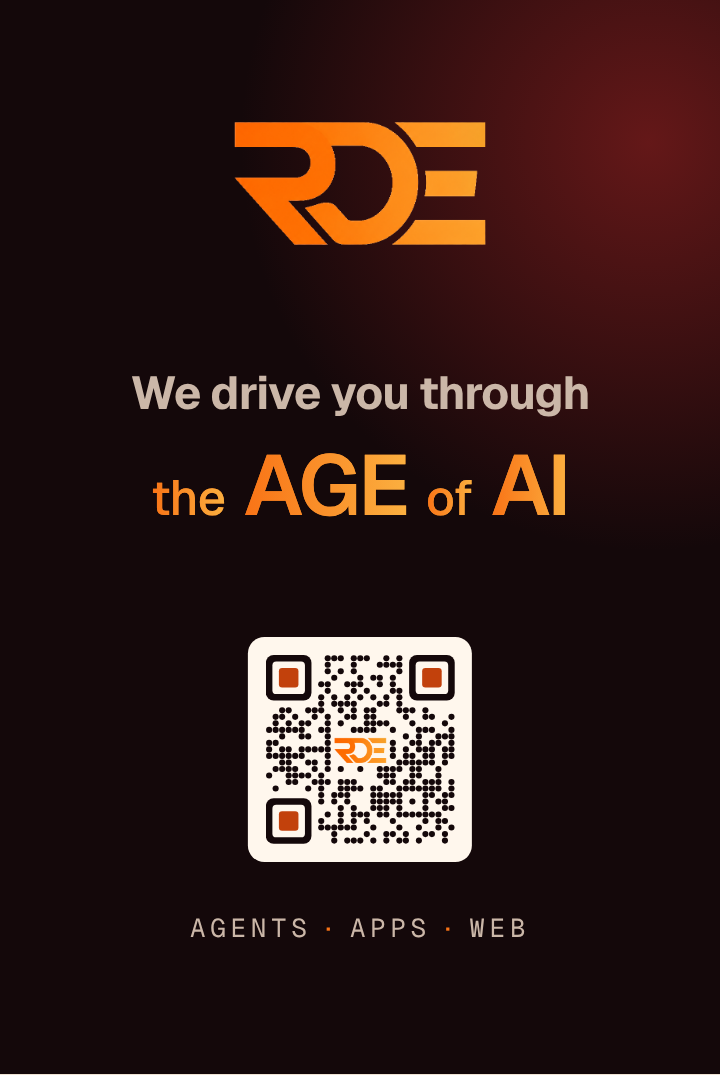
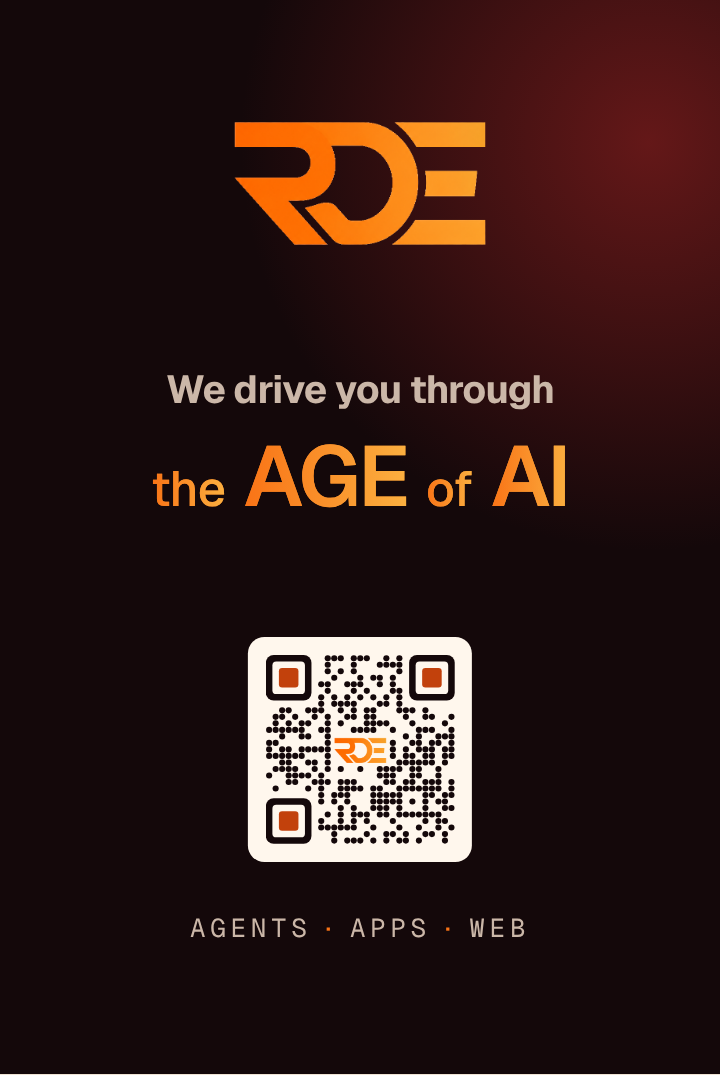
Business card portrait: smaller lead-in line
Claude-Session: https://claude.ai/code/session_01B6fozEJdCLAGrKoXUG1e35

Changed region(s): [[0.1833, 0.3377, 0.825, 0.4912], [0.2139, 0.4298, 0.3056, 0.4912]]

diff --git a/business-card/_p-back-bleed.html b/business-card/_p-back-bleed.html
@@ -50,7 +50,7 @@ body{margin:0;background:var(--bg);color:var(--fg);font-family:var(--font)}
 .glow{right:calc(-30 * var(--mm));top:calc(-24 * var(--mm));width:calc(72 * var(--mm));height:calc(72 * var(--mm));border-radius:50%;background:radial-gradient(circle,rgba(127,29,29,.75),rgba(127,29,29,0) 68%)}
 .logo{left:50%;transform:translateX(-50%);top:calc(7 * var(--mm));height:calc(11 * var(--mm));width:auto;display:block}
 .hl{left:0;right:0;top:calc(28 * var(--mm));text-align:center}
-.hl h2{margin:0;font-weight:400;font-size:calc(3.9 * var(--mm));line-height:1.2;white-space:nowrap;color:#cbb7a8;letter-spacing:-.02em}
+.hl h2{margin:0;font-weight:400;font-size:calc(3.3 * var(--mm));line-height:1.2;white-space:nowrap;color:#cbb7a8;letter-spacing:-.02em}
 .hl h2 b{display:block;margin-top:calc(1.5 * var(--mm));font-weight:600;font-size:calc(7.2 * var(--mm));line-height:1.1;white-space:nowrap;letter-spacing:-.025em;background:linear-gradient(90deg,#f97316,#fbb040);-webkit-background-clip:text;background-clip:text;color:transparent}
 .hl h2 b span,.hl h2 b s{background:linear-gradient(90deg,#f97316,#fbb040);-webkit-background-clip:text;background-clip:text;color:transparent}
 .hl h2 b s{text-decoration:none;font-size:.58em;font-weight:500;letter-spacing:-.01em}

diff --git a/business-card/_p-back.html b/business-card/_p-back.html
@@ -50,7 +50,7 @@ body{margin:0;background:var(--bg);color:var(--fg);font-family:var(--font)}
 .glow{right:calc(-30 * var(--mm));top:calc(-24 * var(--mm));width:calc(72 * var(--mm));height:calc(72 * var(--mm));border-radius:50%;background:radial-gradient(circle,rgba(127,29,29,.75),rgba(127,29,29,0) 68%)}
 .logo{left:50%;transform:translateX(-50%);top:calc(7 * var(--mm));height:calc(11 * var(--mm));width:auto;display:block}
 .hl{left:0;right:0;top:calc(28 * var(--mm));text-align:center}
-.hl h2{margin:0;font-weight:400;font-size:calc(3.9 * var(--mm));line-height:1.2;white-space:nowrap;color:#cbb7a8;letter-spacing:-.02em}
+.hl h2{margin:0;font-weight:400;font-size:calc(3.3 * var(--mm));line-height:1.2;white-space:nowrap;color:#cbb7a8;letter-spacing:-.02em}
 .hl h2 b{display:block;margin-top:calc(1.5 * var(--mm));font-weight:600;font-size:calc(7.2 * var(--mm));line-height:1.1;white-space:nowrap;letter-spacing:-.025em;background:linear-gradient(90deg,#f97316,#fbb040);-webkit-background-clip:text;background-clip:text;color:transparent}
 .hl h2 b span,.hl h2 b s{background:linear-gradient(90deg,#f97316,#fbb040);-webkit-background-clip:text;background-clip:text;color:transparent}
 .hl h2 b s{text-decoration:none;font-size:.58em;font-weight:500;letter-spacing:-.01em}

diff --git a/business-card/_p-front-bleed.html b/business-card/_p-front-bleed.html
@@ -50,7 +50,7 @@ body{margin:0;background:var(--bg);color:var(--fg);font-family:var(--font)}
 .glow{right:calc(-30 * var(--mm));top:calc(-24 * var(--mm));width:calc(72 * var(--mm));height:calc(72 * var(--mm));border-radius:50%;background:radial-gradient(circle,rgba(127,29,29,.75),rgba(127,29,29,0) 68%)}
 .logo{left:50%;transform:translateX(-50%);top:calc(7 * var(--mm));height:calc(11 * var(--mm));width:auto;display:block}
 .hl{left:0;right:0;top:calc(28 * var(--mm));text-align:center}
-.hl h2{margin:0;font-weight:400;font-size:calc(3.9 * var(--mm));line-height:1.2;white-space:nowrap;color:#cbb7a8;letter-spacing:-.02em}
+.hl h2{margin:0;font-weight:400;font-size:calc(3.3 * var(--mm));line-height:1.2;white-space:nowrap;color:#cbb7a8;letter-spacing:-.02em}
 .hl h2 b{display:block;margin-top:calc(1.5 * var(--mm));font-weight:600;font-size:calc(7.2 * var(--mm));line-height:1.1;white-space:nowrap;letter-spacing:-.025em;background:linear-gradient(90deg,#f97316,#fbb040);-webkit-background-clip:text;background-clip:text;color:transparent}
 .hl h2 b span,.hl h2 b s{background:linear-gradient(90deg,#f97316,#fbb040);-webkit-background-clip:text;background-clip:text;color:transparent}
 .hl h2 b s{text-decoration:none;font-size:.58em;font-weight:500;letter-spacing:-.01em}

diff --git a/business-card/_p-front.html b/business-card/_p-front.html
@@ -50,7 +50,7 @@ body{margin:0;background:var(--bg);color:var(--fg);font-family:var(--font)}
 .glow{right:calc(-30 * var(--mm));top:calc(-24 * var(--mm));width:calc(72 * var(--mm));height:calc(72 * var(--mm));border-radius:50%;background:radial-gradient(circle,rgba(127,29,29,.75),rgba(127,29,29,0) 68%)}
 .logo{left:50%;transform:translateX(-50%);top:calc(7 * var(--mm));height:calc(11 * var(--mm));width:auto;display:block}
 .hl{left:0;right:0;top:calc(28 * var(--mm));text-align:center}
-.hl h2{margin:0;font-weight:400;font-size:calc(3.9 * var(--mm));line-height:1.2;white-space:nowrap;color:#cbb7a8;letter-spacing:-.02em}
+.hl h2{margin:0;font-weight:400;font-size:calc(3.3 * var(--mm));line-height:1.2;white-space:nowrap;color:#cbb7a8;letter-spacing:-.02em}
 .hl h2 b{display:block;margin-top:calc(1.5 * var(--mm));font-weight:600;font-size:calc(7.2 * var(--mm));line-height:1.1;white-space:nowrap;letter-spacing:-.025em;background:linear-gradient(90deg,#f97316,#fbb040);-webkit-background-clip:text;background-clip:text;color:transparent}
 .hl h2 b span,.hl h2 b s{background:linear-gradient(90deg,#f97316,#fbb040);-webkit-background-clip:text;background-clip:text;color:transparent}
 .hl h2 b s{text-decoration:none;font-size:.58em;font-weight:500;letter-spacing:-.01em}

diff --git a/business-card/portrait.html b/business-card/portrait.html
@@ -50,7 +50,7 @@ body{margin:0;background:var(--bg);color:var(--fg);font-family:var(--font)}
 .glow{right:calc(-30 * var(--mm));top:calc(-24 * var(--mm));width:calc(72 * var(--mm));height:calc(72 * var(--mm));border-radius:50%;background:radial-gradient(circle,rgba(127,29,29,.75),rgba(127,29,29,0) 68%)}
 .logo{left:50%;transform:translateX(-50%);top:calc(7 * var(--mm));height:calc(11 * var(--mm));width:auto;display:block}
 .hl{left:0;right:0;top:calc(28 * var(--mm));text-align:center}
-.hl h2{margin:0;font-weight:400;font-size:calc(3.9 * var(--mm));line-height:1.2;white-space:nowrap;color:#cbb7a8;letter-spacing:-.02em}
+.hl h2{margin:0;font-weight:400;font-size:calc(3.3 * var(--mm));line-height:1.2;white-space:nowrap;color:#cbb7a8;letter-spacing:-.02em}
 .hl h2 b{display:block;margin-top:calc(1.5 * var(--mm));font-weight:600;font-size:calc(7.2 * var(--mm));line-height:1.1;white-space:nowrap;letter-spacing:-.025em;background:linear-gradient(90deg,#f97316,#fbb040);-webkit-background-clip:text;background-clip:text;color:transparent}
 .hl h2 b span,.hl h2 b s{background:linear-gradient(90deg,#f97316,#fbb040);-webkit-background-clip:text;background-clip:text;color:transparent}
 .hl h2 b s{text-decoration:none;font-size:.58em;font-weight:500;letter-spacing:-.01em}

diff --git a/business-card/preview.html b/business-card/preview.html
@@ -50,7 +50,7 @@ body{margin:0;background:var(--bg);color:var(--fg);font-family:var(--font)}
 .glow{right:calc(-30 * var(--mm));top:calc(-24 * var(--mm));width:calc(72 * var(--mm));height:calc(72 * var(--mm));border-radius:50%;background:radial-gradient(circle,rgba(127,29,29,.75),rgba(127,29,29,0) 68%)}
 .logo{left:50%;transform:translateX(-50%);top:calc(7 * var(--mm));height:calc(11 * var(--mm));width:auto;display:block}
 .hl{left:0;right:0;top:calc(28 * var(--mm));text-align:center}
-.hl h2{margin:0;font-weight:400;font-size:calc(3.9 * var(--mm));line-height:1.2;white-space:nowrap;color:#cbb7a8;letter-spacing:-.02em}
+.hl h2{margin:0;font-weight:400;font-size:calc(3.3 * var(--mm));line-height:1.2;white-space:nowrap;color:#cbb7a8;letter-spacing:-.02em}
 .hl h2 b{display:block;margin-top:calc(1.5 * var(--mm));font-weight:600;font-size:calc(7.2 * var(--mm));line-height:1.1;white-space:nowrap;letter-spacing:-.025em;background:linear-gradient(90deg,#f97316,#fbb040);-webkit-background-clip:text;background-clip:text;color:transparent}
 .hl h2 b span,.hl h2 b s{background:linear-gradient(90deg,#f97316,#fbb040);-webkit-background-clip:text;background-clip:text;color:transparent}
 .hl h2 b s{text-decoration:none;font-size:.58em;font-weight:500;letter-spacing:-.01em}

diff --git a/business-card/build_portrait.py b/business-card/build_portrait.py
@@ -17,7 +17,7 @@ body{margin:0;background:var(--bg);color:var(--fg);font-family:var(--font)}
 .glow{right:calc(-30 * var(--mm));top:calc(-24 * var(--mm));width:calc(72 * var(--mm));height:calc(72 * var(--mm));border-radius:50%;background:radial-gradient(circle,rgba(127,29,29,.75),rgba(127,29,29,0) 68%)}
 .logo{left:50%;transform:translateX(-50%);top:calc(7 * var(--mm));height:calc(11 * var(--mm));width:auto;display:block}
 .hl{left:0;right:0;top:calc(28 * var(--mm));text-align:center}
-.hl h2{margin:0;font-weight:400;font-size:calc(3.9 * var(--mm));line-height:1.2;white-space:nowrap;color:#cbb7a8;letter-spacing:-.02em}
+.hl h2{margin:0;font-weight:400;font-size:calc(3.3 * var(--mm));line-height:1.2;white-space:nowrap;color:#cbb7a8;letter-spacing:-.02em}
 .hl h2 b{display:block;margin-top:calc(1.5 * var(--mm));font-weight:600;font-size:calc(7.2 * var(--mm));line-height:1.1;white-space:nowrap;letter-spacing:-.025em;background:linear-gradient(90deg,#f97316,#fbb040);-webkit-background-clip:text;background-clip:text;color:transparent}
 .hl h2 b span,.hl h2 b s{background:linear-gradient(90deg,#f97316,#fbb040);-webkit-background-clip:text;background-clip:text;color:transparent}
 .hl h2 b s{text-decoration:none;font-size:.58em;font-weight:500;letter-spacing:-.01em}
